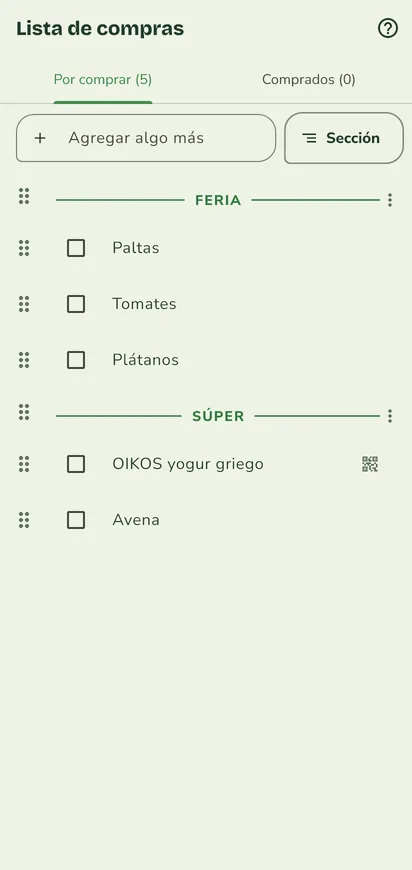
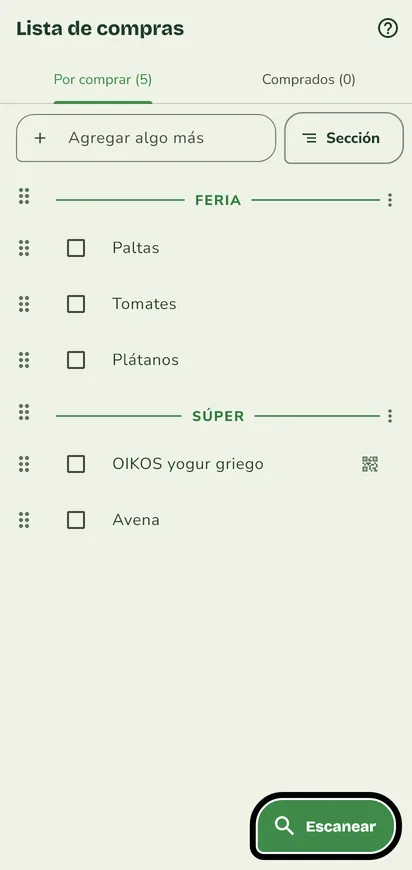
feat: botón «Escanear» igual en todas las pantallas (1.0.12)

Changed region(s): [[0.5825, 0.9, 0.9903, 0.9931]]

diff --git a/novedades.html b/novedades.html
@@ -184,6 +184,19 @@
     <p class="lead">Brote crece con lo que nos cuentan quienes la usan. Aquí va lo que cambia en cada versión, contado en simple.</p>
     <p>Las versiones llegan primero a una prueba interna y después a los testers. <a href="probar.html">¿Quieres probarla tú también?</a></p>
     <ol class="rel">
+      <li id="v1.0.12">
+        <header>
+          <h2>Escanear desde cualquier pantalla</h2>
+          <span class="ver">Versión 1.0.12</span>
+          <time>21 de noviembre</time>
+          <span class="stage">En prueba interna</span>
+        </header>
+        <ul>
+          <li>El botón verde <strong>«Escanear»</strong> ahora es el mismo en todas las pantallas y llega a las que no lo tenían: Lista de compras, Premium, Acerca de y Aviso de uso. En Inicio sigue el botón redondo del centro.</li>
+          <li>«Sin colorantes» y otras frases del envase que empiezan con «sin» ya no aparecen como ingredientes.</li>
+          <li>Brote reconoce «variedad de camotes».</li>
+        </ul>
+      </li>
       <li id="v1.0.11">
         <header>
           <h2>Saber más sobre cada pantalla</h2>

diff --git a/ayuda/index.html b/ayuda/index.html
@@ -68,6 +68,7 @@
   <p class="eyebrow">Ayuda</p>
   <h1>Cada pantalla de Brote, explicada</h1>
   <p class="lead">En la app, toca el botón «?» de cualquier pantalla y luego «Saber más» para llegar directo a su página.</p>
+  <p>Para escanear: en Inicio, el botón redondo del centro de la barra; en las demás pantallas, el botón verde «Escanear» de abajo a la derecha.</p>
   <div class="groups">
 <div class="card"><h2>Primeros pasos</h2><ul><li><a href="disclaimer.html">Aviso de uso</a></li><li><a href="welcome.html">Bienvenida</a></li><li><a href="onboarding.html">Personalizar</a></li><li><a href="permission.html">Permiso de cámara</a></li></ul></div>
 <div class="card"><h2>Inicio</h2><ul><li><a href="home-0.html">Historial</a></li><li><a href="home-1.html">Logros</a></li><li><a href="home-2.html">Listas</a></li><li><a href="home-3.html">Perfil</a></li></ul></div>

diff --git a/ayuda/home-0.html b/ayuda/home-0.html
@@ -80,7 +80,7 @@
   <li>Toca un producto para ver su resultado de nuevo, sin contarlo como un escaneo nuevo.</li>
   <li>Mantén presionado para seleccionar varios. Después puedes eliminarlos o, si elegiste uno solo, cambiarle el nombre.</li>
   <li>Desliza hacia abajo para recargar.</li>
-  <li>El botón redondo del centro abre el escáner.</li>
+  <li>El botón redondo del centro abre el escáner. En las demás pantallas, el botón verde «Escanear» de abajo a la derecha hace lo mismo.</li>
 </ul>
 <h2>Con Premium</h2>
 <ul>

diff --git a/ayuda/result.html b/ayuda/result.html
@@ -83,7 +83,7 @@
   <li>Toca el lápiz para cambiar el nombre o la marca.</li>
   <li>Si el producto no coincide con tu envase, fotografía sus ingredientes.</li>
   <li>Un ingrediente «No reconocido» se puede corregir, separar o eliminar.</li>
-  <li>Abajo: escanear otro, guardar en favoritos o ir al historial.</li>
+  <li>Abajo: el botón «Escanear» para el siguiente producto, volver a escanear este, ir al historial o guardarlo en favoritos.</li>
 </ul>
 <h2>Bueno saber</h2>
 <ul>
